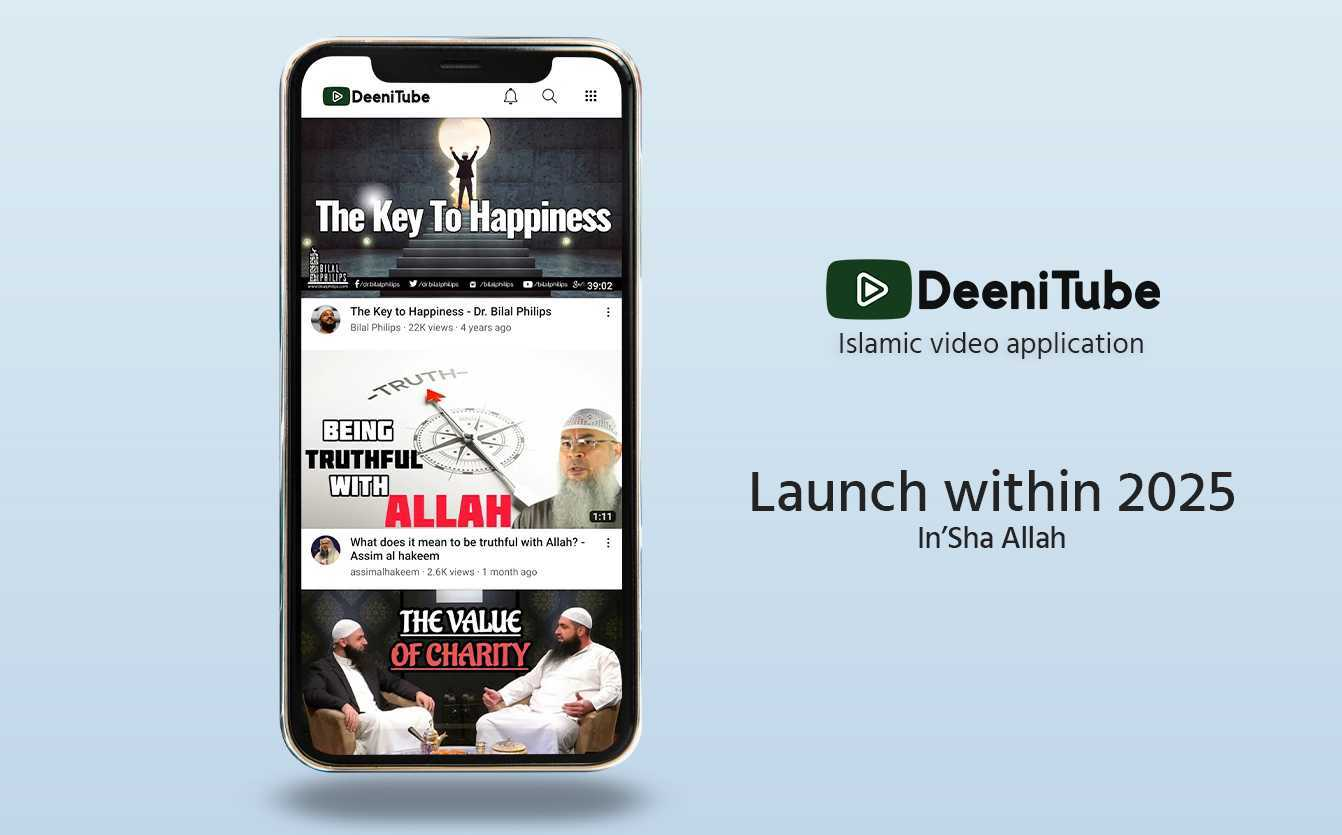
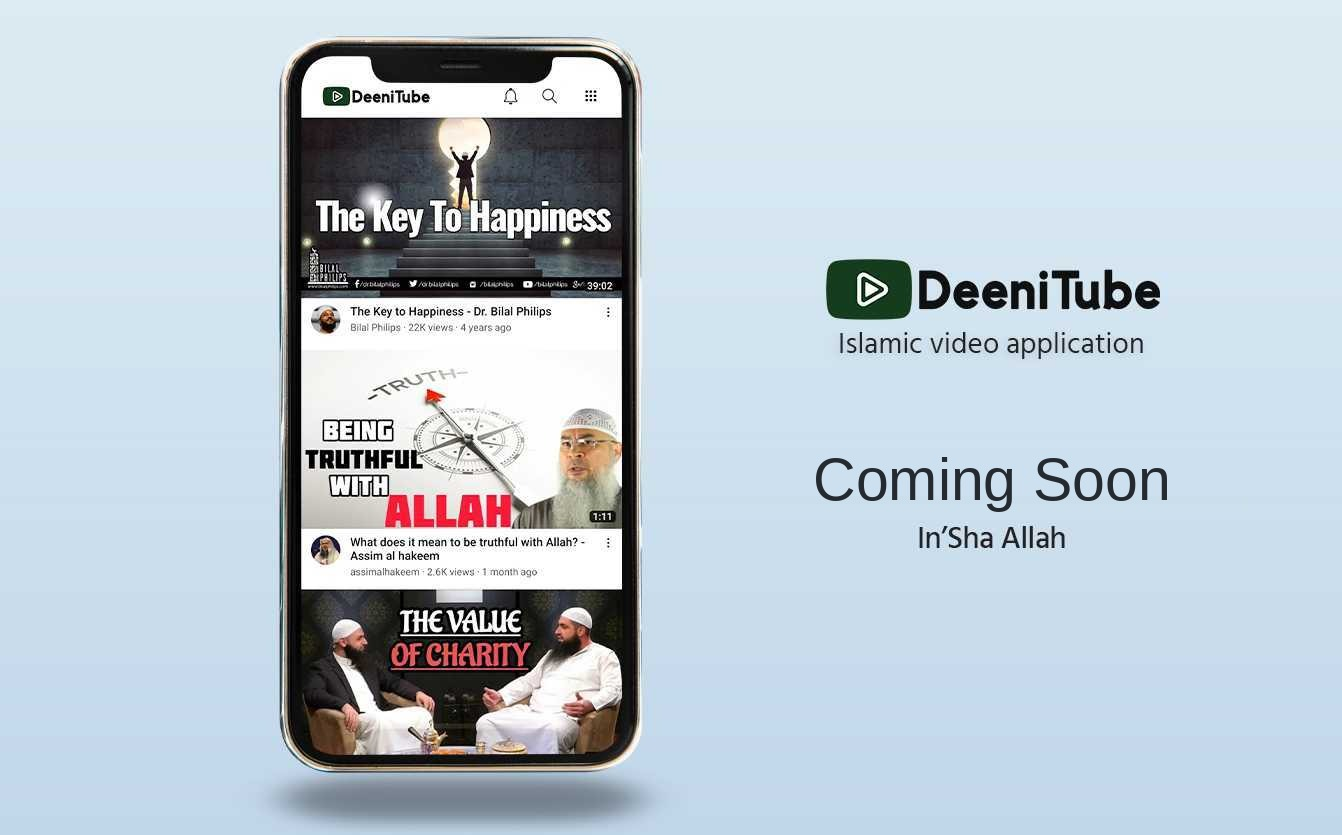
Add Deeni.tv app, fix coming-soon slides, reorder goals sections
- Replace "Launch within 2025" with "Coming Soon" on the DeeniTube,
  Quran.ac, and Hadith.ac slider images, keeping font, size, and the
  "In'Sha Allah" line unchanged.
- Add Deeni.tv as a new app: first card in the Develop Islamic
  Applications slider and apps list, with a composited banner image
  and a /p/deeni-tv detail page matching the existing app pages.
- Reorder "Our Goals" menu and the matching homepage/about page
  sections so Non-Muslim Countries comes first and Scholars & Da'wah
  moves to last, swapping their background colors to keep the
  alternating look (alignment unchanged).

Changed region(s): [[0.5499, 0.5293, 0.9165, 0.6228]]

diff --git a/src/components/pages/ProjectDetail/DeeniTV.jsx b/src/components/pages/ProjectDetail/DeeniTV.jsx
@@ -1,0 +1,109 @@
+import Section from '../../utils/Section';
+import styles from '../ProjectList/SupportNonMuslimCountries.module.scss';
+import countriesStyles from '../ProjectList/DawahInCountries.module.scss';
+import aboutStyles from '../Home/About.module.scss';
+import Container from "../../utils/Container";
+import classNames from "classnames";
+import { Swiper, SwiperSlide } from 'swiper/react';
+import {Autoplay} from "swiper";
+import { useState } from 'react';
+import WebsiteIcon from "../../icons/Website";
+import Link from 'next/link';
+
+const DeeniTVDetail = () => {
+  const [swiperInstance, setSwiperInstance] = useState(null);
+  return (
+    <>
+      <div id="applications">
+        <Section
+            classes={{
+              root: styles.root,
+              container: styles.container,
+              content: styles.content,
+            }}
+        >
+          <div className={styles.inner}>
+            <div className={classNames(styles.detail_text, styles.app_card)}>
+              <div className={styles.app_card_inner}>
+                <p>
+                  Experience premium Islamic content in a revolutionary lean-back TV interface designed for modern audiences. Deeni.tv brings you high-quality spiritual programming including Quran recitations, Islamic lectures, historical documentaries, and daily reflections, all in a 24/7 live streaming experience with multi-language support and scheduled programming.
+                </p>
+              </div>
+            </div>
+          </div>
+        </Section>
+      </div>
+
+      <div id="apps" className={aboutStyles.wrapper}>
+        <Container>
+          <div className={aboutStyles.content}>
+            <div className={styles.detail_text}>
+              <h2><span className={aboutStyles.highlight}>Deeni.tv</span> Apps</h2>
+              <p>
+                <Link href="/p/deeni-tv#website" legacyBehavior>
+                  <a>
+                    <span style={{ color: `#1377FD` }}>Website</span>
+                  </a>
+                </Link>
+              </p>
+            </div>
+          </div>
+        </Container>
+      </div>
+
+      <Section
+          classes={{
+            root: styles.root,
+            container: styles.container_app_in_vn,
+            content: styles.content,
+          }}
+      >
+        <div className={classNames(countriesStyles.inner2, countriesStyles.app_in_vn_right_slider)}>
+          <div id="website" className={countriesStyles.detail2}>
+            <div className={countriesStyles.title}>
+              <h2 className={aboutStyles.highlight}>Website</h2>
+            </div>
+            <div className={countriesStyles.text}>
+              <div className={styles.app_info_wrapper}>
+                <span className={styles.app_icon}>
+                  <WebsiteIcon />
+                </span>
+                <a href="https://www.deeni.tv" target="_blank" rel="noreferrer">
+                  <span style={{ color: `#1377FD` }}>www.Deeni.tv</span>
+                </a>
+              </div>
+            </div>
+          </div>
+          <div className={countriesStyles.websitessc}>
+            <Swiper
+                spaceBetween={0}
+                slidesPerView={1}
+                loop={true}
+                modules={[Autoplay]}
+                autoplay={{
+                  delay: 3000,
+                  disableOnInteraction: false,
+                }}
+                onSwiper={(swiper) => setSwiperInstance(swiper)}
+            >
+              <SwiperSlide>
+                <img src="/img/our_apps/deeni-tv/website/w1.png" />
+              </SwiperSlide>
+              <SwiperSlide>
+                <img src="/img/our_apps/deeni-tv/website/w2.png" />
+              </SwiperSlide>
+              <SwiperSlide>
+                <img src="/img/our_apps/deeni-tv/website/w3.png" />
+              </SwiperSlide>
+              <SwiperSlide>
+                <img src="/img/our_apps/deeni-tv/website/w4.png" />
+              </SwiperSlide>
+            </Swiper>
+          </div>
+        </div>
+      </Section>
+    </>
+  );
+};
+
+export default DeeniTVDetail;

diff --git a/src/components/sliders/ImageSliderSecondary/index.jsx b/src/components/sliders/ImageSliderSecondary/index.jsx
@@ -157,6 +157,19 @@ const Slider = ({ displayButton }) => {
                           <SwiperSlide>
                             <div style={{ display: `flex` }} className="tsi_item">
                               <Image
+                                  src="/img/slides/deeni-tv-banner.jpg"
+                                  alt=""
+                                  layout="fill"
+                                  objectFit="cover"
+                                  objectPosition="center center"
+                                  loading="eager"
+                                  unoptimized
+                              />
+                            </div>
+                          </SwiperSlide>
+                          <SwiperSlide>
+                            <div style={{ display: `flex` }} className="tsi_item">
+                              <Image
                                   src="/img/slides/quran-tube-webb.jpg"
                                   alt=""
                                   layout="fill"
@@ -235,6 +248,19 @@ const Slider = ({ displayButton }) => {
                         }}
                         onSwiper={(swiper) => setSwiperInstance(swiper)}
                     >
+                       <SwiperSlide>
+                        <div style={{ display: `flex` }} className="tsi_item">
+                          <Image
+                              src="/img/slides/deeni-tv-banner.jpg"
+                              alt=""
+                              layout="fill"
+                              objectFit="cover"
+                              objectPosition="center center"
+                              loading="eager"
+                              unoptimized
+                          />
+                        </div>
+                      </SwiperSlide>
                        <SwiperSlide>
                         <div style={{ display: `flex` }} className="tsi_item">
                           <Image

diff --git a/src/components/core/MainNav/index.jsx b/src/components/core/MainNav/index.jsx
@@ -55,16 +55,6 @@ const MainNav = ({ open, controller }) => {
               <li
                 className={`${styles.page} ${styles.footer} ${styles.accessibility}`}
               >
-                <Link href="/applications-for-scholars-and-dawah-organizations" legacyBehavior>
-                  <a onClick={(e) => controller(e)}>
-                    Applications for Scholars & Da&apos;wah organizations
-                  </a>
-                </Link>
-              </li>
-
-              <li
-                className={`${styles.page} ${styles.footer} ${styles.accessibility}`}
-              >
                 <Link href="/applications-for-non-muslim-countries" legacyBehavior>
                   <a onClick={(e) => controller(e)}>
                     Applications for Non-Muslim Countries
@@ -78,6 +68,16 @@ const MainNav = ({ open, controller }) => {
                 <Link href="/develop-islamic-applications" legacyBehavior>
                   <a onClick={(e) => controller(e)}>
                     Develop Islamic applications
+                  </a>
+                </Link>
+              </li>
+
+              <li
+                className={`${styles.page} ${styles.footer} ${styles.accessibility}`}
+              >
+                <Link href="/applications-for-scholars-and-dawah-organizations" legacyBehavior>
+                  <a onClick={(e) => controller(e)}>
+                    Applications for Scholars & Da&apos;wah organizations
                   </a>
                 </Link>
               </li>

diff --git a/src/pages/p/deeni-tv.js b/src/pages/p/deeni-tv.js
@@ -1,0 +1,29 @@
+import Meta from "../../components/core/Meta";
+import {server} from "../../lib/config";
+import Banner from "../../components/utils/BannerPrimary";
+import PageContent from "../../components/utils/PageContent";
+import PageDetail from '../../components/pages/ProjectDetail/DeeniTV';
+
+export default function Page() {
+    return (
+        <>
+            <Meta
+                title={`Deeni.tv | DeeniInfoTech.com`}
+                description="Experience premium Islamic content in a revolutionary lean-back TV interface designed for modern audiences."
+                url={`${server}/p/deeni-tv`}
+                image={`${server}/img/our_apps/deeni-tv-card-logo.png`}
+                type="website"
+            />
+
+            <Banner
+                bgImage="img/banner/banner-about.jpg"
+                title="Deeni.tv"
+                subTitle=""
+            />
+
+            <PageContent>
+                <PageDetail />
+            </PageContent>
+        </>
+    );
+}

diff --git a/src/data/our-apps.js b/src/data/our-apps.js
@@ -1,5 +1,14 @@
 export const apps = [
   {
+    id: '6',
+    name: 'Deeni.tv',
+    slug: 'deeni-tv',
+    url: 'https://www.deeni.tv',
+    imgPath: '/img/our_apps/deeni-tv-card-logo.png',
+    excerpt: 'Experience premium Islamic content in a revolutionary lean-back TV interface designed for modern audiences. Deeni.tv brings you high-quality spiritual programming including Quran recitations, Islamic lectures, historical documentaries, and daily reflections, with 24/7 live streaming and multi-language support.',
+    order: 1,
+  },
+  {
     id: '5',
     name: 'Quran.tube',
     slug: 'quran-tube',

diff --git a/src/pages/about.js b/src/pages/about.js
@@ -28,10 +28,10 @@ export default function AboutPage() {
 
         <PageContent>
             <HomeAbout />
-            <AppsForScholars />
             <DawahInCountries />
             {/* <OurApps /> */}
             <HomeImageSliderSecondary />
+            <AppsForScholars />
             <HomeFaqs />
             <HomeSubscription />
         </PageContent>

diff --git a/src/pages/index.js b/src/pages/index.js
@@ -32,10 +32,10 @@ export default function HomePage() {
       <PageContent>
         <VerseSlider />
         <HomeAbout />
-        <AppsForScholars />
         <DawahInCountries />
         {/* <OurApps /> */}
         <HomeImageSliderSecondary />
+        <AppsForScholars />
         <HomeFaqs />
         <HomeSubscription />
       </PageContent>

diff --git a/src/components/pages/Home/DawahInCountries.module.scss b/src/components/pages/Home/DawahInCountries.module.scss
@@ -1,6 +1,6 @@
 .root {
-  background-color: #f8f8f8;
   background-color: #fff;
+  background-color: #f8f8f8;
 }
 .container {
 }

diff --git a/src/components/pages/Home/AppsForScholars.module.scss b/src/components/pages/Home/AppsForScholars.module.scss
@@ -1,6 +1,6 @@
 .root {
-  background-color: #fff;
   background-color: #f8f8f8;
+  background-color: #fff;
 }
 .container {
 }
